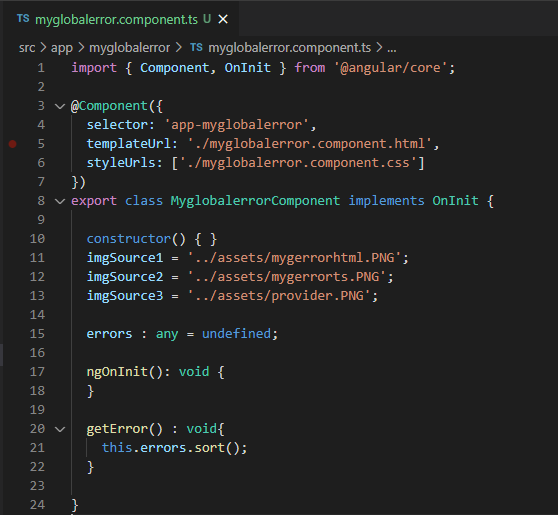
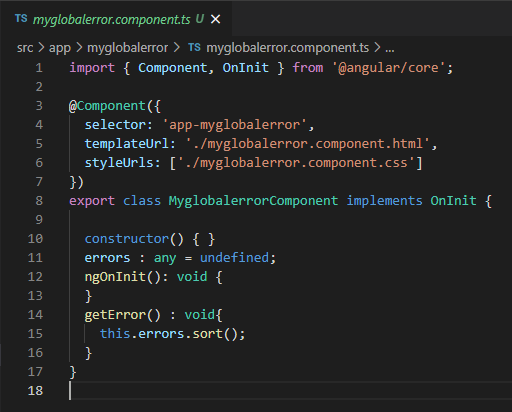
Angular Commit

Changed region(s): [[0.0312, 0.0874, 0.9688, 1.0], [0.0312, 0.0291, 0.4375, 0.0583], [0.0, 0.2621, 0.0312, 0.2913]]

diff --git a/Angular/my-dream-app/src/app/myglobalerror/myglobalerror.component.ts b/Angular/my-dream-app/src/app/myglobalerror/myglobalerror.component.ts
@@ -8,9 +8,9 @@ import { Component, OnInit } from '@angular/core';
 export class MyglobalerrorComponent implements OnInit {
 
   constructor() { }
-  imgSource1 = '../assets/mygerrorhtml.PNG';
-  imgSource2 = '../assets/mygerrorts.PNG';
-  imgSource3 = '../assets/provider.PNG';
+  imgSource1 = '../assets/myglobalerrorhtml.jpg';
+  imgSource2 = '../assets/myglobalerrorts.jpg';
+  imgSource3 = '../assets/provide.jpg';
   
   errors : any = undefined;
   
